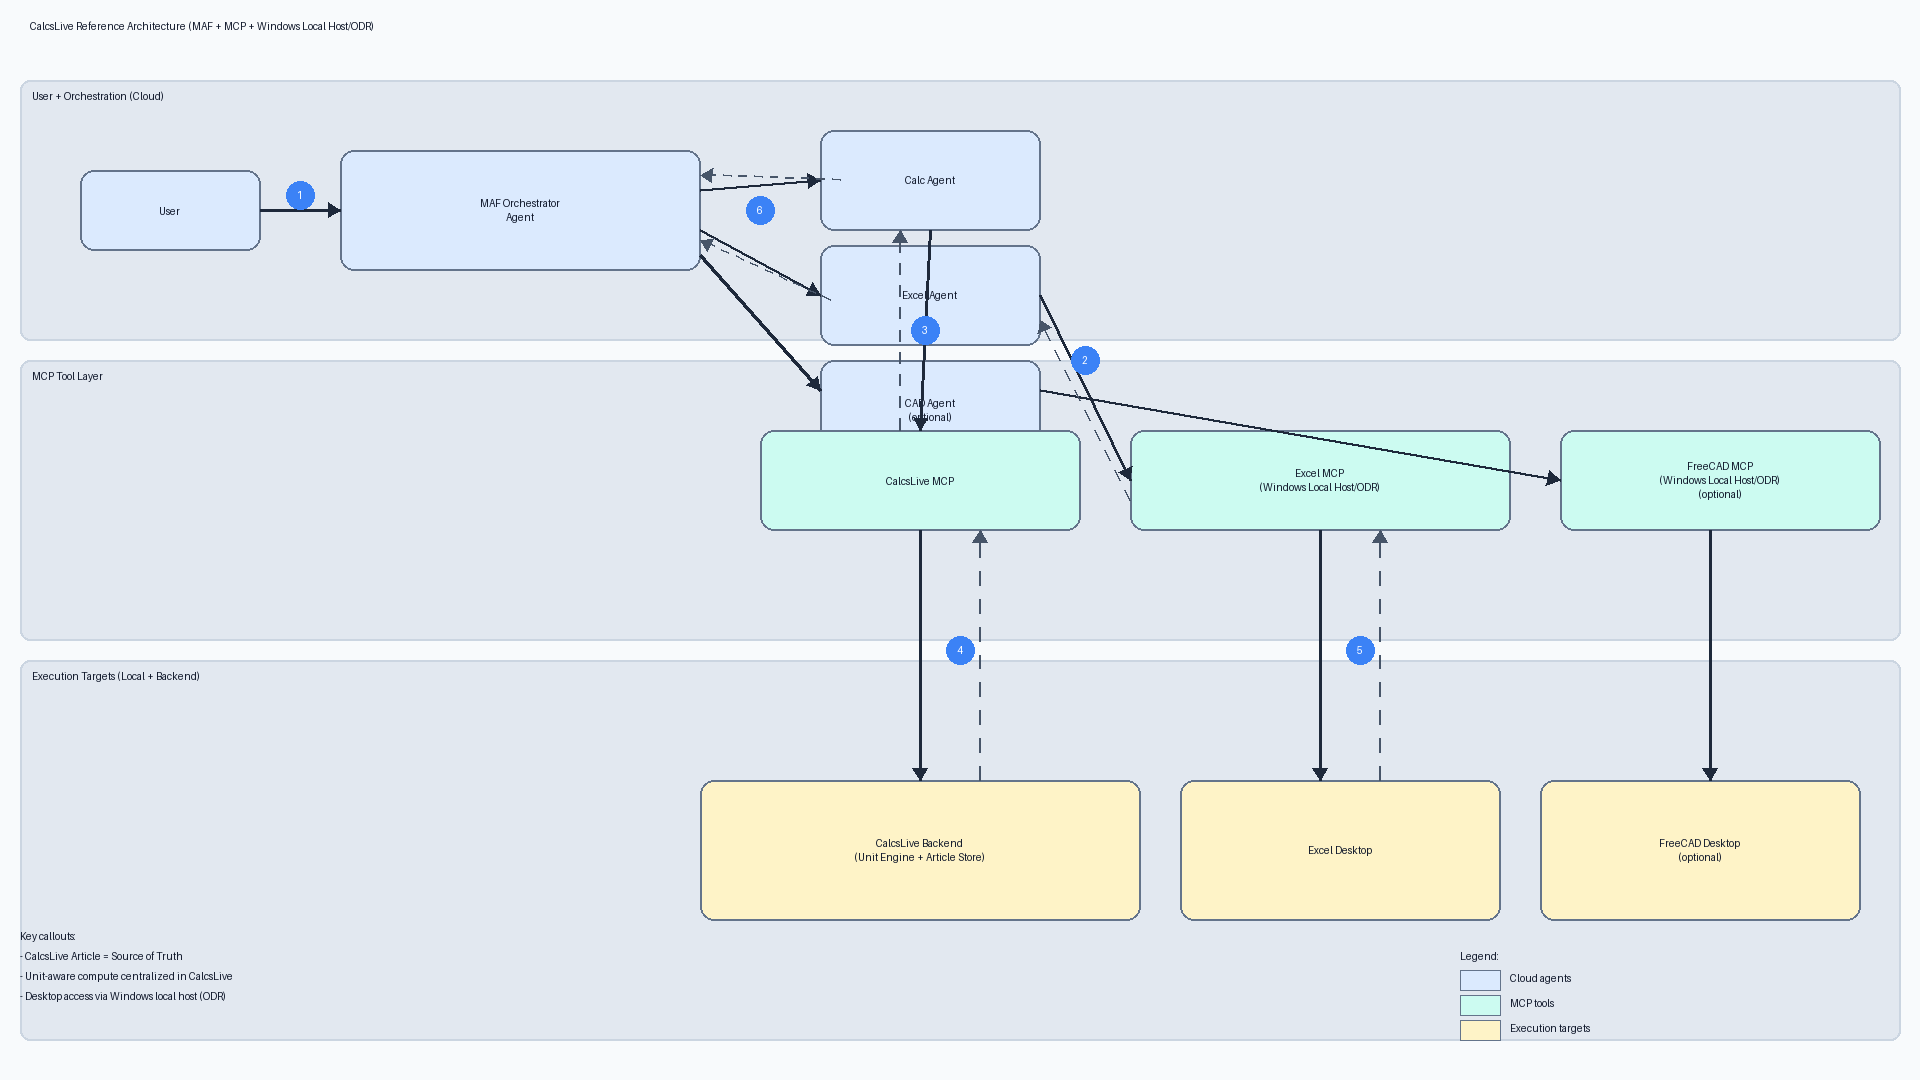
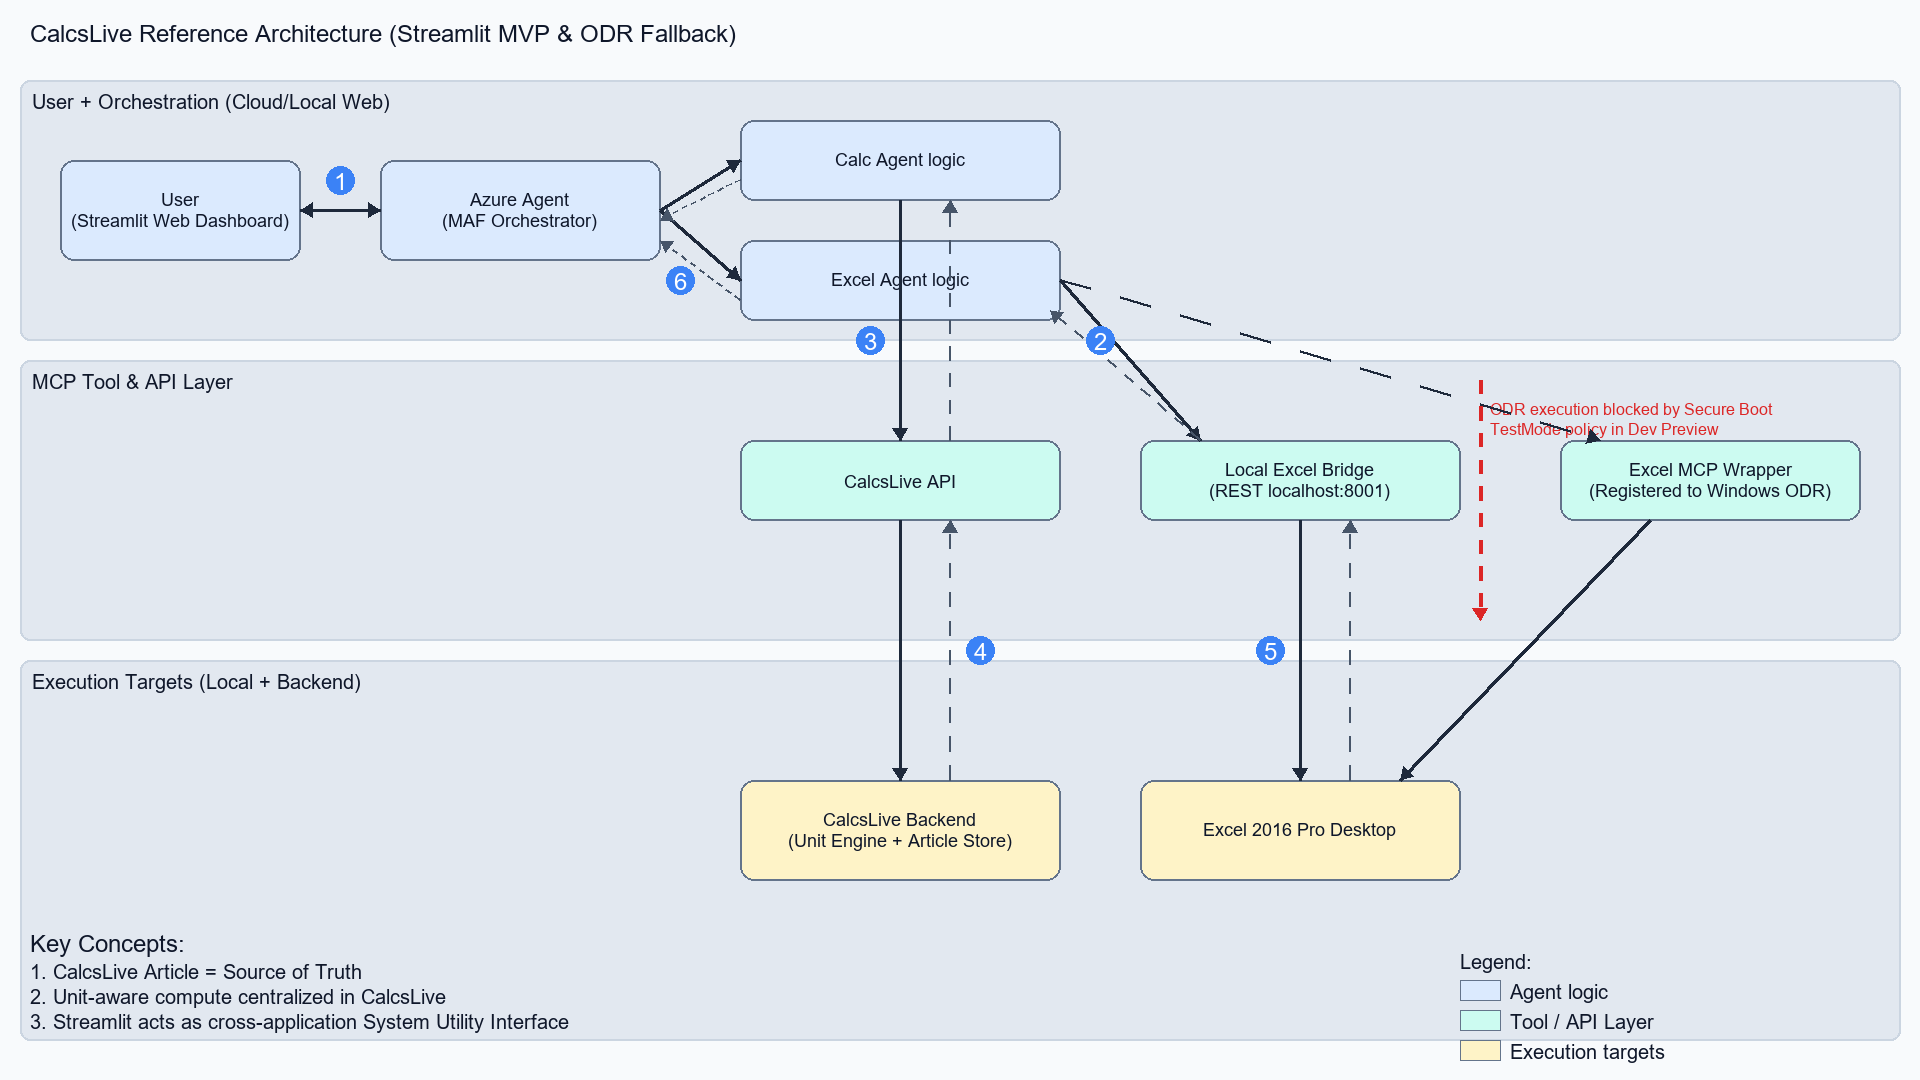
docs: regenerate architecture diagram image with Streamlit MVP and ODR blocked path

diff --git a/docs/generate_architecture_png.py b/docs/generate_architecture_png.py
@@ -1,6 +1,5 @@
 from PIL import Image, ImageDraw, ImageFont
 
-
 W, H = 1920, 1080
 BG = (248, 250, 252)
 
@@ -12,14 +11,13 @@ COLORS = {
     "text": (15, 23, 42),
     "arrow": (30, 41, 59),
     "dash": (71, 85, 105),
+    "red_dash": (220, 38, 38),
     "badge": (59, 130, 246),
     "badge_text": (255, 255, 255),
 }
 
-
 def rect(draw, box, fill, outline=(100, 116, 139), width=2, r=14):
     draw.rounded_rectangle(box, radius=r, fill=fill, outline=outline, width=width)
-
 
 def center_text(draw, box, text, font, fill=COLORS["text"]):
     x1, y1, x2, y2 = box
@@ -28,8 +26,7 @@ def center_text(draw, box, text, font, fill=COLORS["text"]):
     cy = (y1 + y2 - th) // 2
     draw.multiline_text((cx, cy), text, font=font, fill=fill, align="center")
 
-
-def arrow(draw, p1, p2, color=COLORS["arrow"], width=3, dashed=False):
+def arrow(draw, p1, p2, color=COLORS["arrow"], width=3, dashed=False, bi_directional=False):
     x1, y1 = p1
     x2, y2 = p2
     if dashed:
@@ -46,17 +43,20 @@ def arrow(draw, p1, p2, color=COLORS["arrow"], width=3, dashed=False):
     else:
         draw.line((x1, y1, x2, y2), fill=color, width=width)
 
-    # Arrow head
-    vx = x2 - x1
-    vy = y2 - y1
-    mag = (vx * vx + vy * vy) ** 0.5 or 1
-    ux, uy = vx / mag, vy / mag
-    px, py = -uy, ux
-    size = 12
-    p_left = (x2 - ux * size - px * size * 0.6, y2 - uy * size - py * size * 0.6)
-    p_right = (x2 - ux * size + px * size * 0.6, y2 - uy * size + py * size * 0.6)
-    draw.polygon([p_left, p_right, (x2, y2)], fill=color)
+    def draw_head(px1, py1, px2, py2):
+        vx = px2 - px1
+        vy = py2 - py1
+        mag = (vx * vx + vy * vy) ** 0.5 or 1
+        ux, uy = vx / mag, vy / mag
+        px, py = -uy, ux
+        size = 12
+        p_left = (px2 - ux * size - px * size * 0.6, py2 - uy * size - py * size * 0.6)
+        p_right = (px2 - ux * size + px * size * 0.6, py2 - uy * size + py * size * 0.6)
+        draw.polygon([p_left, p_right, (px2, py2)], fill=color)
 
+    draw_head(x1, y1, x2, y2)
+    if bi_directional:
+        draw_head(x2, y2, x1, y1)
 
 def badge(draw, x, y, label, font):
     r = 14
@@ -64,22 +64,28 @@ def badge(draw, x, y, label, font):
     tw, th = draw.textbbox((0, 0), label, font=font)[2:]
     draw.text((x - tw // 2, y - th // 2 - 1), label, font=font, fill=COLORS["badge_text"])
 
-
 def main():
     img = Image.new("RGB", (W, H), BG)
     draw = ImageDraw.Draw(img)
 
-    title_font = ImageFont.load_default()
-    box_font = ImageFont.load_default()
-    lane_font = ImageFont.load_default()
+    try:
+        title_font = ImageFont.truetype("arial.ttf", 24)
+        box_font = ImageFont.truetype("arial.ttf", 18)
+        lane_font = ImageFont.truetype("arial.ttf", 20)
+        warning_font = ImageFont.truetype("arial.ttf", 16)
+    except IOError:
+        title_font = ImageFont.load_default()
+        box_font = ImageFont.load_default()
+        lane_font = ImageFont.load_default()
+        warning_font = ImageFont.load_default()
 
     # Title
-    draw.text((30, 20), "CalcsLive Reference Architecture (MAF + MCP + Windows Local Host/ODR)", fill=COLORS["text"], font=title_font)
+    draw.text((30, 20), "CalcsLive Reference Architecture (Streamlit MVP & ODR Fallback)", fill=COLORS["text"], font=title_font)
 
     # Swimlanes
     lanes = [
-        (20, 80, 1900, 340, "User + Orchestration (Cloud)"),
-        (20, 360, 1900, 640, "MCP Tool Layer"),
+        (20, 80, 1900, 340, "User + Orchestration (Cloud/Local Web)"),
+        (20, 360, 1900, 640, "MCP Tool & API Layer"),
         (20, 660, 1900, 1040, "Execution Targets (Local + Backend)"),
     ]
     for x1, y1, x2, y2, label in lanes:
@@ -87,99 +93,98 @@ def main():
         draw.text((x1 + 12, y1 + 10), label, fill=COLORS["text"], font=lane_font)
 
     # Cloud boxes
-    user = (80, 170, 260, 250)
-    orch = (340, 150, 700, 270)
-    calc = (820, 130, 1040, 230)
-    excel_agent = (820, 245, 1040, 345)
-    cad_agent = (820, 20 + 340, 1040, 120 + 340)  # near bottom edge of lane
+    user = (60, 160, 300, 260)
+    orch = (380, 160, 660, 260)
+    calc_agent = (740, 120, 1060, 200)
+    excel_agent = (740, 240, 1060, 320)
 
-    for b in [user, orch, calc, excel_agent, cad_agent]:
+    for b in [user, orch, calc_agent, excel_agent]:
         rect(draw, b, COLORS["cloud_box"])
 
-    center_text(draw, user, "User", box_font)
-    center_text(draw, orch, "MAF Orchestrator\nAgent", box_font)
-    center_text(draw, calc, "Calc Agent", box_font)
-    center_text(draw, excel_agent, "Excel Agent", box_font)
-    center_text(draw, cad_agent, "CAD Agent\n(optional)", box_font)
+    center_text(draw, user, "User\n(Streamlit Web Dashboard)", box_font)
+    center_text(draw, orch, "Azure Agent\n(MAF Orchestrator)", box_font)
+    center_text(draw, calc_agent, "Calc Agent logic", box_font)
+    center_text(draw, excel_agent, "Excel Agent logic", box_font)
 
-    # MCP boxes
-    cl_mcp = (760, 430, 1080, 530)
-    ex_mcp = (1130, 430, 1510, 530)
-    cad_mcp = (1560, 430, 1880, 530)
+    # Control Arrows
+    arrow(draw, (300, 210), (380, 210), bi_directional=True)
+    arrow(draw, (660, 210), (740, 160))
+    arrow(draw, (660, 210), (740, 280))
 
-    for b in [cl_mcp, ex_mcp, cad_mcp]:
+    # Tool / API boxes
+    cl_api = (740, 440, 1060, 520)
+    ex_bridge = (1140, 440, 1460, 520)
+    ex_mcp = (1560, 440, 1860, 520)
+
+    for b in [cl_api, ex_bridge, ex_mcp]:
         rect(draw, b, COLORS["mcp_box"])
 
-    center_text(draw, cl_mcp, "CalcsLive MCP", box_font)
-    center_text(draw, ex_mcp, "Excel MCP\n(Windows Local Host/ODR)", box_font)
-    center_text(draw, cad_mcp, "FreeCAD MCP\n(Windows Local Host/ODR)\n(optional)", box_font)
+    center_text(draw, cl_api, "CalcsLive API", box_font)
+    center_text(draw, ex_bridge, "Local Excel Bridge\n(REST localhost:8001)", box_font)
+    center_text(draw, ex_mcp, "Excel MCP Wrapper\n(Registered to Windows ODR)", box_font)
 
-    # Execution boxes
-    cl_backend = (700, 780, 1140, 920)
-    excel_desktop = (1180, 780, 1500, 920)
-    freecad_desktop = (1540, 780, 1860, 920)
+    # ODR Warning Line between ex_bridge and ex_mcp
+    arrow(draw, (1480, 380), (1480, 620), color=COLORS["red_dash"], dashed=True, width=4)
+    draw.text((1490, 400), "ODR execution blocked by Secure Boot", fill=COLORS["red_dash"], font=warning_font)
+    draw.text((1490, 420), "TestMode policy in Dev Preview", fill=COLORS["red_dash"], font=warning_font)
 
-    for b in [cl_backend, excel_desktop, freecad_desktop]:
+    # Tool Arrows
+    arrow(draw, (900, 200), (900, 440))
+    arrow(draw, (1060, 280), (1200, 440))
+    arrow(draw, (1060, 280), (1600, 440), dashed=True) # Intended path
+
+    # Execution targets
+    cl_backend = (740, 780, 1060, 880)
+    ex_desktop = (1140, 780, 1460, 880)
+
+    for b in [cl_backend, ex_desktop]:
         rect(draw, b, COLORS["exec_box"])
 
     center_text(draw, cl_backend, "CalcsLive Backend\n(Unit Engine + Article Store)", box_font)
-    center_text(draw, excel_desktop, "Excel Desktop", box_font)
-    center_text(draw, freecad_desktop, "FreeCAD Desktop\n(optional)", box_font)
-
-    # Solid control arrows
-    arrow(draw, (260, 210), (340, 210))
-    arrow(draw, (700, 190), (820, 180))
-    arrow(draw, (700, 230), (820, 295))
-    arrow(draw, (700, 255), (820, 390))
-
-    # Tool invocation arrows
-    arrow(draw, (930, 230), (920, 430))
-    arrow(draw, (1040, 295), (1130, 480))
-    arrow(draw, (1040, 390), (1560, 480))
+    center_text(draw, ex_desktop, "Excel 2016 Pro Desktop", box_font)
 
     # Execution arrows
-    arrow(draw, (920, 530), (920, 780))
-    arrow(draw, (1320, 530), (1320, 780))
-    arrow(draw, (1710, 530), (1710, 780))
+    arrow(draw, (900, 520), (900, 780))
+    arrow(draw, (1300, 520), (1300, 780))
+    arrow(draw, (1650, 520), (1400, 780))
 
-    # Dashed return arrows
-    arrow(draw, (980, 780), (980, 530), dashed=True, color=COLORS["dash"], width=2)
-    arrow(draw, (1380, 780), (1380, 530), dashed=True, color=COLORS["dash"], width=2)
-    arrow(draw, (1130, 500), (1040, 320), dashed=True, color=COLORS["dash"], width=2)
-    arrow(draw, (900, 430), (900, 230), dashed=True, color=COLORS["dash"], width=2)
-    arrow(draw, (830, 300), (700, 240), dashed=True, color=COLORS["dash"], width=2)
-    arrow(draw, (840, 180), (700, 175), dashed=True, color=COLORS["dash"], width=2)
+    # Dashed returns
+    arrow(draw, (950, 780), (950, 520), dashed=True, color=COLORS["dash"], width=2)
+    arrow(draw, (1350, 780), (1350, 520), dashed=True, color=COLORS["dash"], width=2)
+    arrow(draw, (1200, 440), (1050, 310), dashed=True, color=COLORS["dash"], width=2)
+    arrow(draw, (950, 440), (950, 200), dashed=True, color=COLORS["dash"], width=2)
+    arrow(draw, (740, 180), (660, 220), dashed=True, color=COLORS["dash"], width=2)
+    arrow(draw, (740, 300), (660, 240), dashed=True, color=COLORS["dash"], width=2)
 
-    # Numbered workflow badges
-    badge_font = ImageFont.load_default()
-    badge(draw, 300, 195, "1", badge_font)
-    badge(draw, 1085, 360, "2", badge_font)
-    badge(draw, 925, 330, "3", badge_font)
-    badge(draw, 960, 650, "4", badge_font)
-    badge(draw, 1360, 650, "5", badge_font)
-    badge(draw, 760, 210, "6", badge_font)
+    # Workflow Badges
+    badge_font = title_font
+    badge(draw, 340, 180, "1", badge_font)
+    badge(draw, 1100, 340, "2", badge_font)
+    badge(draw, 870, 340, "3", badge_font)
+    badge(draw, 980, 650, "4", badge_font)
+    badge(draw, 1270, 650, "5", badge_font)
+    badge(draw, 680, 280, "6", badge_font)
 
-    # Right-side callouts
-    callout_x = 20
+    # Side Annotations
+    callout_x = 30
     callout_y = 930
-    draw.text((callout_x, callout_y), "Key callouts:", fill=COLORS["text"], font=box_font)
-    draw.text((callout_x, callout_y + 20), "- CalcsLive Article = Source of Truth", fill=COLORS["text"], font=box_font)
-    draw.text((callout_x, callout_y + 40), "- Unit-aware compute centralized in CalcsLive", fill=COLORS["text"], font=box_font)
-    draw.text((callout_x, callout_y + 60), "- Desktop access via Windows local host (ODR)", fill=COLORS["text"], font=box_font)
+    draw.text((callout_x, callout_y), "Key Concepts:", fill=COLORS["text"], font=title_font)
+    draw.text((callout_x, callout_y + 30), "1. CalcsLive Article = Source of Truth", fill=COLORS["text"], font=lane_font)
+    draw.text((callout_x, callout_y + 55), "2. Unit-aware compute centralized in CalcsLive", fill=COLORS["text"], font=lane_font)
+    draw.text((callout_x, callout_y + 80), "3. Streamlit acts as cross-application System Utility Interface", fill=COLORS["text"], font=lane_font)
 
     # Legend
-    draw.text((1460, 950), "Legend:", fill=COLORS["text"], font=box_font)
-    draw.rectangle((1460, 970, 1500, 990), fill=COLORS["cloud_box"], outline=(100, 116, 139))
-    draw.text((1510, 972), "Cloud agents", fill=COLORS["text"], font=box_font)
-    draw.rectangle((1460, 995, 1500, 1015), fill=COLORS["mcp_box"], outline=(100, 116, 139))
-    draw.text((1510, 997), "MCP tools", fill=COLORS["text"], font=box_font)
-    draw.rectangle((1460, 1020, 1500, 1040), fill=COLORS["exec_box"], outline=(100, 116, 139))
-    draw.text((1510, 1022), "Execution targets", fill=COLORS["text"], font=box_font)
+    draw.text((1460, 950), "Legend:", fill=COLORS["text"], font=lane_font)
+    draw.rectangle((1460, 980, 1500, 1000), fill=COLORS["cloud_box"], outline=(100, 116, 139))
+    draw.text((1510, 980), "Agent logic", fill=COLORS["text"], font=lane_font)
+    draw.rectangle((1460, 1010, 1500, 1030), fill=COLORS["mcp_box"], outline=(100, 116, 139))
+    draw.text((1510, 1010), "Tool / API Layer", fill=COLORS["text"], font=lane_font)
+    draw.rectangle((1460, 1040, 1500, 1060), fill=COLORS["exec_box"], outline=(100, 116, 139))
+    draw.text((1510, 1040), "Execution targets", fill=COLORS["text"], font=lane_font)
 
     out = "docs/architecture.png"
     img.save(out)
     print(f"Wrote {out}")
-
 
 if __name__ == "__main__":
     main()
